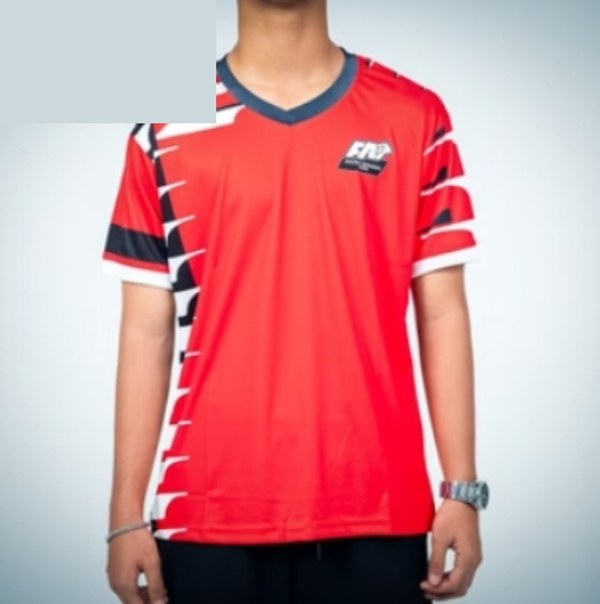
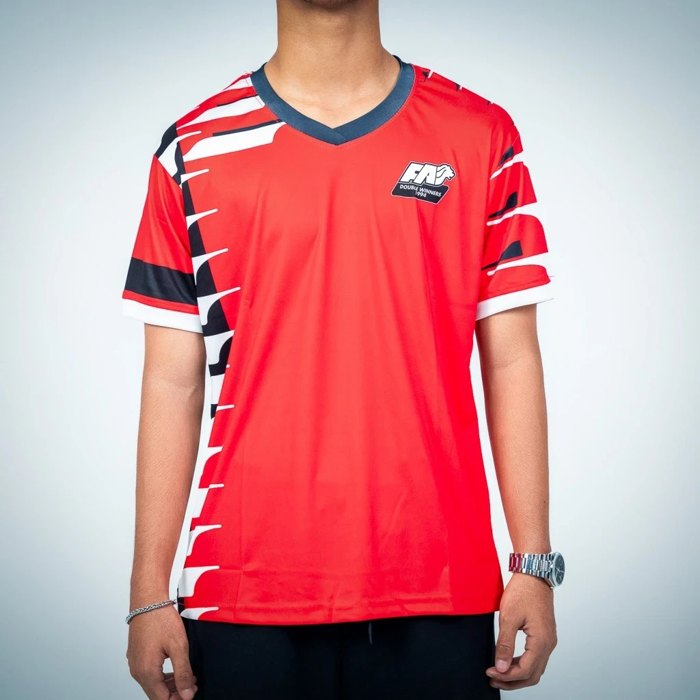
SPL: 1994 jersey photo

diff --git a/spl/app.js b/spl/app.js
@@ -827,7 +827,7 @@
     ['away', 'Singapore 26/27 Away Replica Jersey', 'lions', 'jersey', '99.00', 0, '50% 12%', '5.0', 128],
     ['fanjersey', 'Fan Jersey', 'lions', 'jersey', '14.90', 40, '50% 35%', '4.9', 419],
     ['asean2004', 'Singapore 2004 ASEAN Champions Jersey', 'lions', 'retro', '35.00', 0, '44% 50%', '4.9', 305],
-    ['retro94', 'Singapore 1994 Double Commemorative Jersey', 'lions', 'retro', '35.00', 0, '50% 30%', '4.9', 327],
+    ['retro94', 'Singapore 1994 Double Commemorative Jersey', 'lions', 'retro', '35.00', 0, '50% 35%', '4.9', 327, 0, 'retro94b'],
     ['lions1998', '1998 Inspired Limited Edition Jersey', 'lions', 'retro', '35.00', 0, '55% 45%', '4.9', 422],
     ['asean2012', 'Singapore 2012 ASEAN Champions Jersey', 'lions', 'retro', '45.00', 0, '62% 40%', '5.0', 171],
     ['tiger2007', 'Singapore 2007 Tiger Cup Champions Jersey', 'lions', 'retro', '35.00', 0, '50% 30%', '5.0', 71, 0, 'tiger2007b'],

diff --git a/spl/admin.html b/spl/admin.html
@@ -7,7 +7,7 @@
 <title>SPL Admin</title>
 <link rel="icon" href="assets/league/spl-lion.png">
 <link rel="stylesheet" href="spl.css">
-<link rel="stylesheet" href="admin.css?v=7742224">
+<link rel="stylesheet" href="admin.css?v=2df05ff">
 </head>
 <body class="adm">
 <div id="adm"></div>
@@ -17,7 +17,7 @@
 <script src="vendor/supabase.js"></script>
 <script src="backend.js"></script>
 <script>window.SPL_ADMIN = true;</script>
-<script src="cloud.js?v=7742224"></script>
-<script src="admin.js?v=7742224"></script>
+<script src="cloud.js?v=2df05ff"></script>
+<script src="admin.js?v=2df05ff"></script>
 </body>
 </html>
